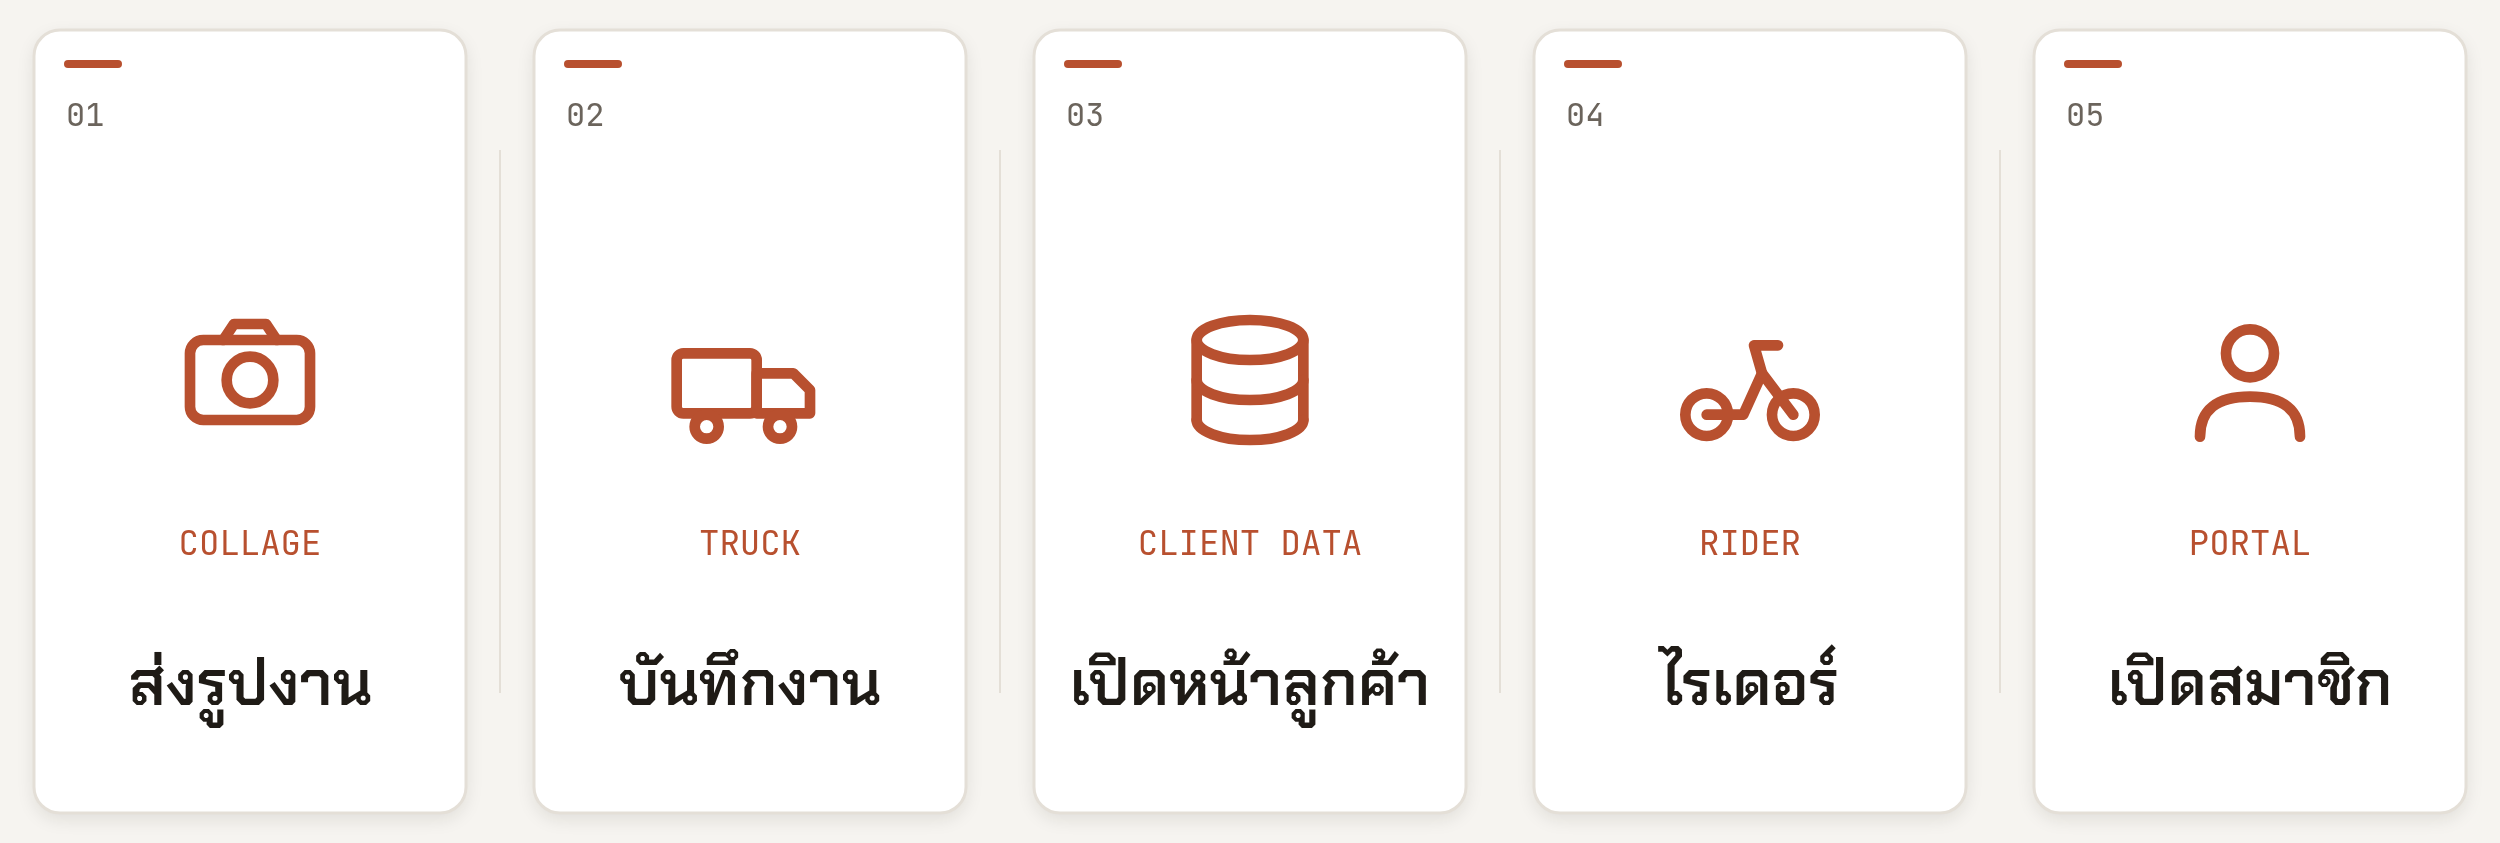
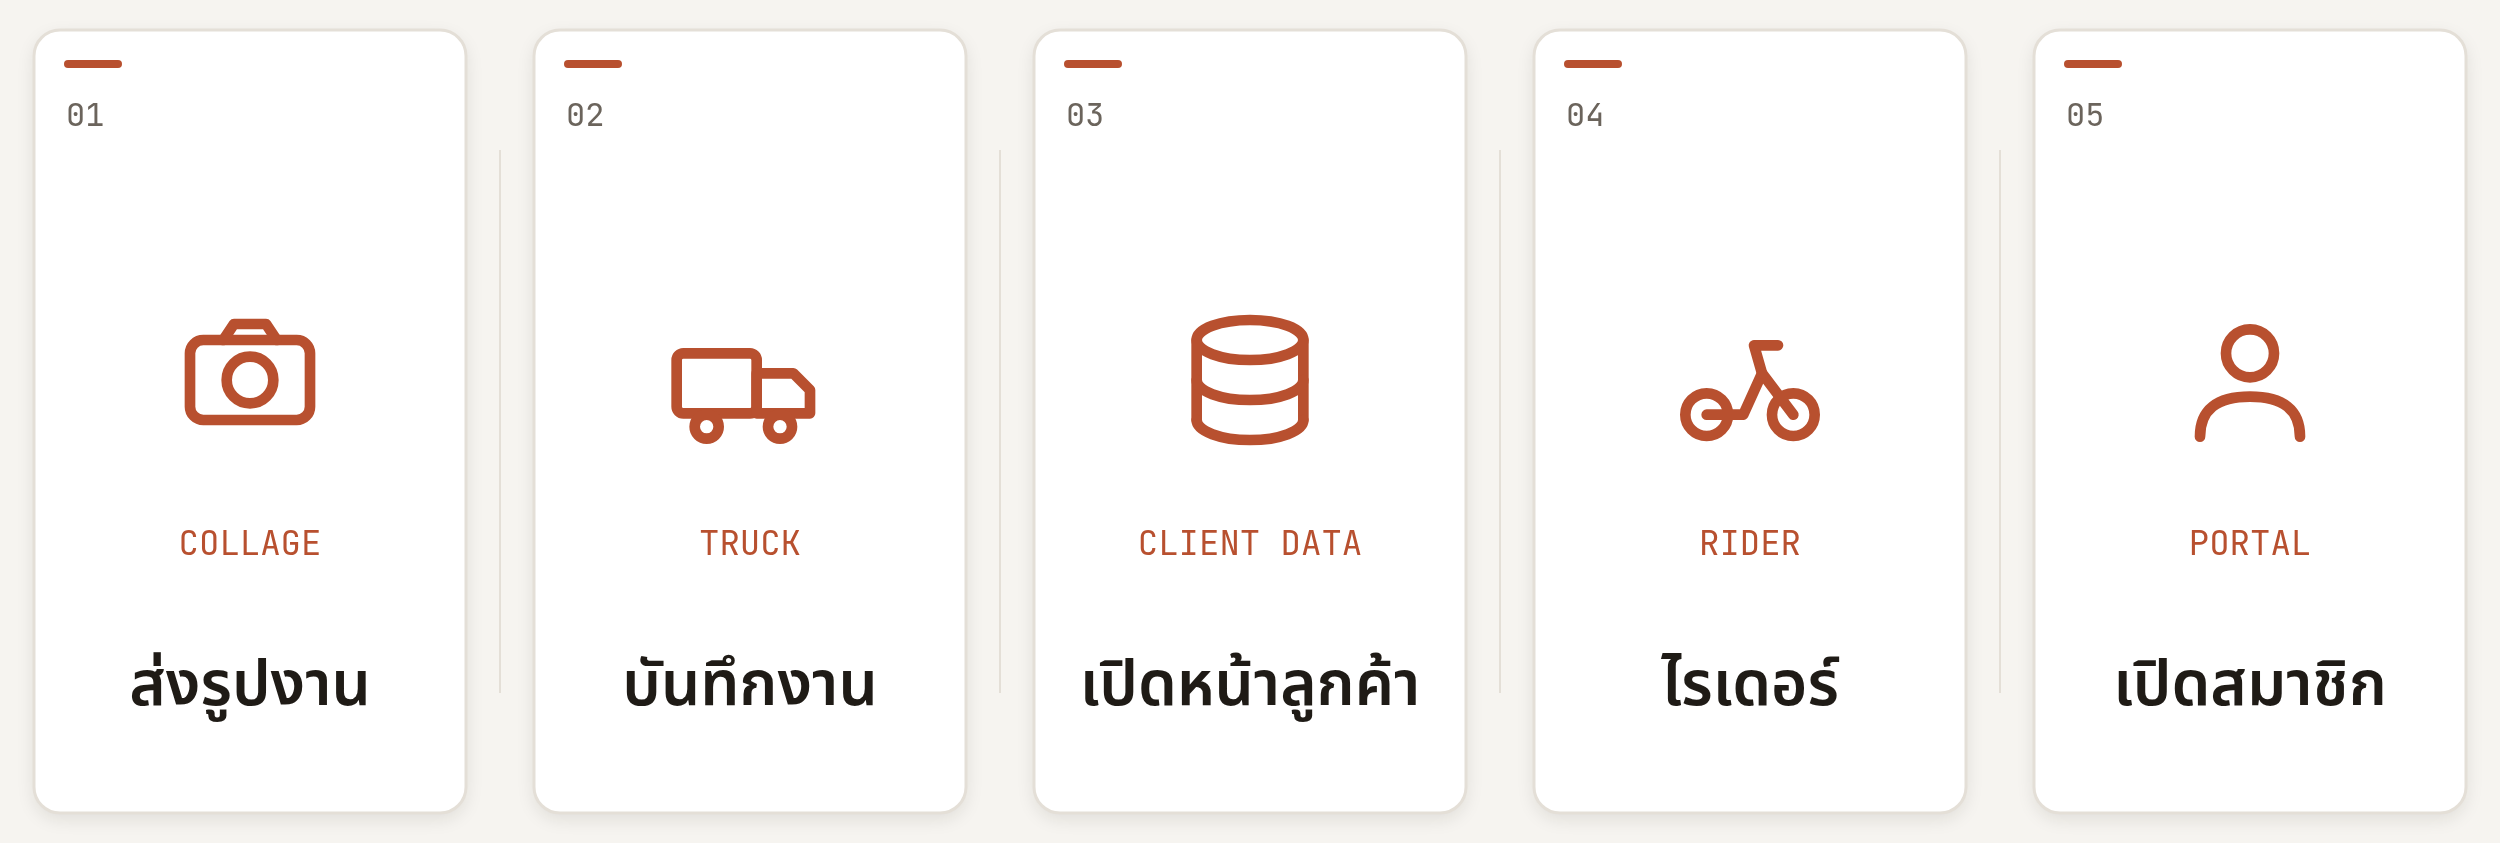
Retire Chakra Petch; draw everything with Noto Sans Thai
Chakra Petch was the display face in the collage themes, the UI and the rich
menu. Noto Sans Thai already carried the Thai glyphs in all three, so the two
faces were doing one job. Drop ChakraPetch-SemiBold.ttf and point the display
role at Noto Sans Thai (600), leaving four self-hosted faces.

Fidelity: identical output dimensions on all 7 themes; the 7 DAYS header name
ink is 1072px wide before and 1075px after, still well inside the canvas.

diff --git a/web/src/lib/collage/render.ts b/web/src/lib/collage/render.ts
@@ -23,10 +23,13 @@ import {
 type FontKind = 'display' | 'serif' | 'mono' | 'sans';
 
 /* ---------- fonts ---------- */
-const FONT_DISPLAY = "'Chakra Petch', 'Noto Sans Thai', system-ui, sans-serif";
+/* 'display' is a role, not a family: it means the sans face at weight 600.
+   Chakra Petch was retired so the collage, the UI and the rich menu all draw
+   from the same font set. */
+const FONT_DISPLAY = "'Noto Sans Thai', system-ui, sans-serif";
 const FONT_SERIF = "'Source Serif 4', 'Noto Serif Thai', Georgia, 'Times New Roman', serif";
 const FONT_MONO = "'JetBrains Mono', 'Noto Sans Thai', ui-monospace, Menlo, Consolas, monospace";
-const FONT_SANS = "'Noto Sans Thai', 'Chakra Petch', system-ui, -apple-system, 'Segoe UI', Roboto, sans-serif";
+const FONT_SANS = "'Noto Sans Thai', system-ui, -apple-system, 'Segoe UI', Roboto, sans-serif";
 
 function fontFor(kind: FontKind, size: number, weight?: number) {
 	const family =
@@ -43,7 +46,7 @@ function fontFor(kind: FontKind, size: number, weight?: number) {
 async function ensureFonts() {
 	if (typeof document === 'undefined' || !document.fonts?.load) return;
 	const specs = [
-		'600 132px "Chakra Petch"',
+		'600 132px "Noto Sans Thai"',
 		'400 57px "JetBrains Mono"',
 		'400 132px "Source Serif 4"',
 		'400 57px "Noto Serif Thai"',

diff --git a/web/src/app.css b/web/src/app.css
@@ -9,13 +9,6 @@
 /* ========== FONTS (self-hosted: the canvas renderer needs them, and the UI
    uses Noto Sans Thai; no Google Fonts round-trip) ========== */
 @font-face {
-  font-family: 'Chakra Petch';
-  src: url('/fonts/ChakraPetch-SemiBold.ttf') format('truetype');
-  font-weight: 600;
-  font-style: normal;
-  font-display: swap;
-}
-@font-face {
   font-family: 'JetBrains Mono';
   src: url('/fonts/JetBrainsMono-Regular.ttf') format('truetype');
   font-weight: 400;
@@ -70,7 +63,7 @@
 
   /* Typography */
   --font-body: 'Noto Sans Thai', system-ui, -apple-system, sans-serif;
-  --font-display: 'Chakra Petch', 'Noto Sans Thai', system-ui, sans-serif;
+  --font-display: 'Noto Sans Thai', system-ui, sans-serif;
 
   /* Spacing */
   --radius: 18px;
